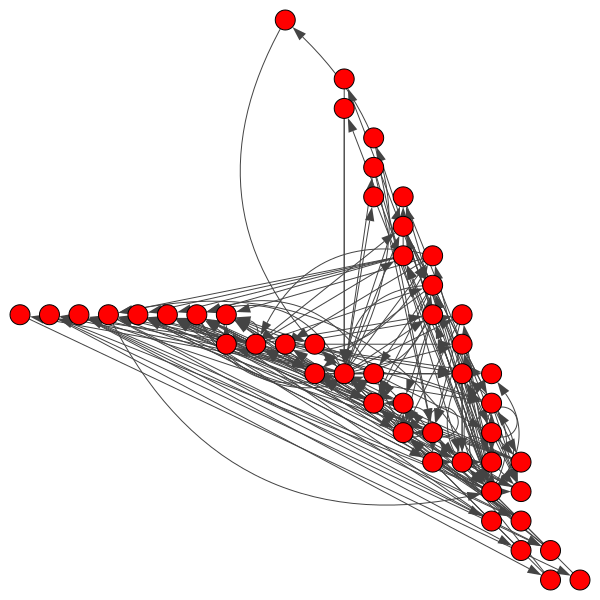
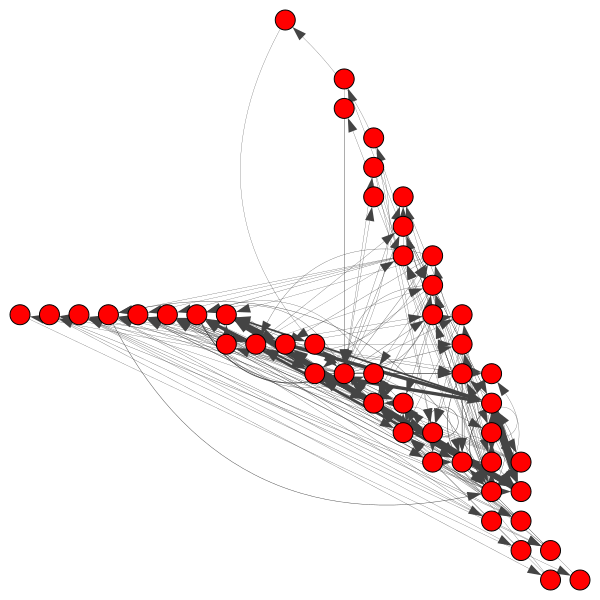
edge weight

diff --git a/example-1-lorenz.py b/example-1-lorenz.py
@@ -42,6 +42,9 @@ if __name__=='__main__':
     plt.savefig('plots/ex-1-lorenz.png')
 
     # Plotting the STN
-    p = ig.plot(g)
+    vs = {}
+    ws = np.array(g.es['weight'])
+    vs['edge_width'] = np.interp(ws, [ws.min(), ws.max()], [0.25,8])
+    p = ig.plot(g, **vs)
     p.save('plots/ex-1-stn.png')
     p.show()
